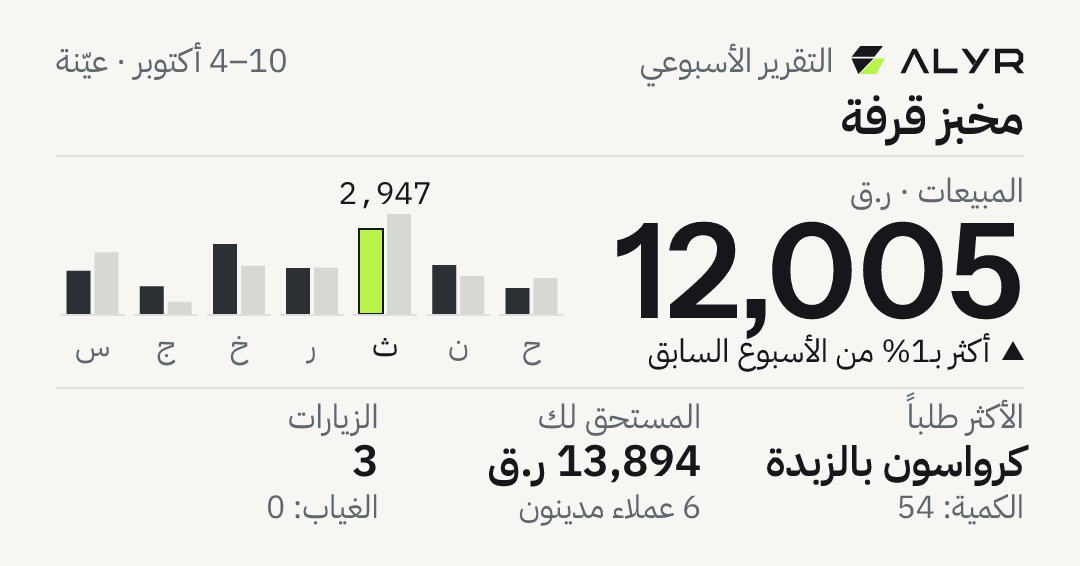
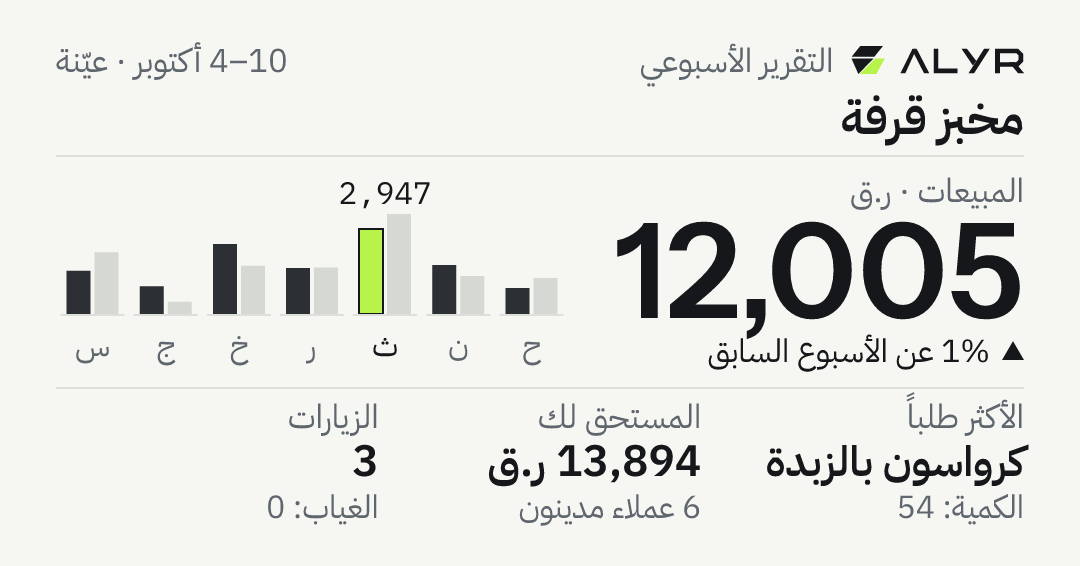
ALY-99 report card 6: the Arabic change line always fits
«▲ 33% عن الأسبوع السابق»: the mark gives the direction. A test fails if any
line on any sample card, in either language or theme, is cut short.

Changed region(s): [[0.5806, 0.6007, 0.9167, 0.6608]]

diff --git a/apps/api/tests/test_report_card.py b/apps/api/tests/test_report_card.py
@@ -58,6 +58,10 @@ def test_the_card_renders_for_every_sample_in_both_languages(samples, key, lang)
     # At WhatsApp's bubble width (about 330 px) no text is smaller than about 9.5 px.
     sizes = [float(v) for v in re.findall(r'font-size="([\d.]+)"', card.svg(data, sample=True))]
     assert min(sizes) >= card.SMALL and min(sizes) * 330 / card.W >= 9.4
+    # Every line fits whole: nothing on the card is cut short with an ellipsis.
+    for theme in ("carbon", "paper"):
+        drawn = card.svg(data, theme, sample=True)
+        assert "…" not in drawn, re.findall(r">([^<]*…)<", drawn)
     for theme in ("carbon", "paper"):
         png = card.render(data, theme, sample=True)
         # WhatsApp's 1.91:1 header, about 1080 px wide, well under Meta's 5 MB.
@@ -132,7 +136,7 @@ def test_a_percentage_only_when_both_weeks_count_twenty_or_more():
     assert big["value"] == "2,500" and big["unit"] == "QAR"
     arabic = week.hero(a_week(facts(orders=20, orders_last=25, sales=200000,
                                     sales_last=250000)), "ar")
-    assert arabic["change"]["text"] == "أقل بـ20% من الأسبوع السابق"
+    assert arabic["change"] == {"dir": "down", "text": "20% عن الأسبوع السابق"}
     first = week.hero(a_week(facts(started=datetime(2026, 10, 6, tzinfo=UTC), orders=30,
                                    orders_last=0)), "en")
     assert first["change"]["text"] == "First week on ALYR"

diff --git a/apps/api/src/alyr/modules/agent/week.py b/apps/api/src/alyr/modules/agent/week.py
@@ -165,10 +165,10 @@ def hero(w: Week, lang: str) -> dict:
         pct = view._pct(cur, last)
         if pct > 0:
             change = {"dir": "up", "text": T(lang, f"up {pct}% on the week before",
-                                             f"أكثر بـ{pct}% من الأسبوع السابق")}
+                                             f"{pct}% عن الأسبوع السابق")}
         elif pct < 0:
             change = {"dir": "down", "text": T(lang, f"down {-pct}% on the week before",
-                                               f"أقل بـ{-pct}% من الأسبوع السابق")}
+                                               f"{-pct}% عن الأسبوع السابق")}
         else:
             change = {"dir": "level", "text": T(lang, "level with the week before",
                                                 "كما في الأسبوع السابق")}

diff --git a/docs/agent-dashboard/12-report-card-log.md b/docs/agent-dashboard/12-report-card-log.md
@@ -70,10 +70,10 @@ The founder approved the card with one fix: at WhatsApp's bubble size (about 330
   - the eyebrow is "Weekly report", without "Agent";
   - "Booked ahead / next 7 days";
   - "ordered again", "of 31 due", "first message";
-  - in Arabic, «من الأسبوع السابق» and «عميلان مدينان».
+  - in Arabic, the change line «▲ 33% عن الأسبوع السابق» (the mark says which way; it was cut short on the salon card) and «عميلان مدينان».
 - **Arabic day names** are their initials (ح ن ث ر خ ج س), as Arabic calendars head their weeks. The names did not fit seven columns at a readable size.
 - **Measuring Arabic:** joined letters turned out 0.66 to 0.84 as wide as the isolated forms `width()` measured, so lines were cut too early. They are now scaled by 0.86, checked against resvg's own renders.
-- **A new test** fails if any text on any sample card is under 31 px.
+- **New tests** fail if any text on any sample card is under 31 px, or if any line on any card, in either language and theme, is cut short with an ellipsis.
 - The samples and the phone-width shots in `shots-report/` were captured again.
 
 ## Checks
